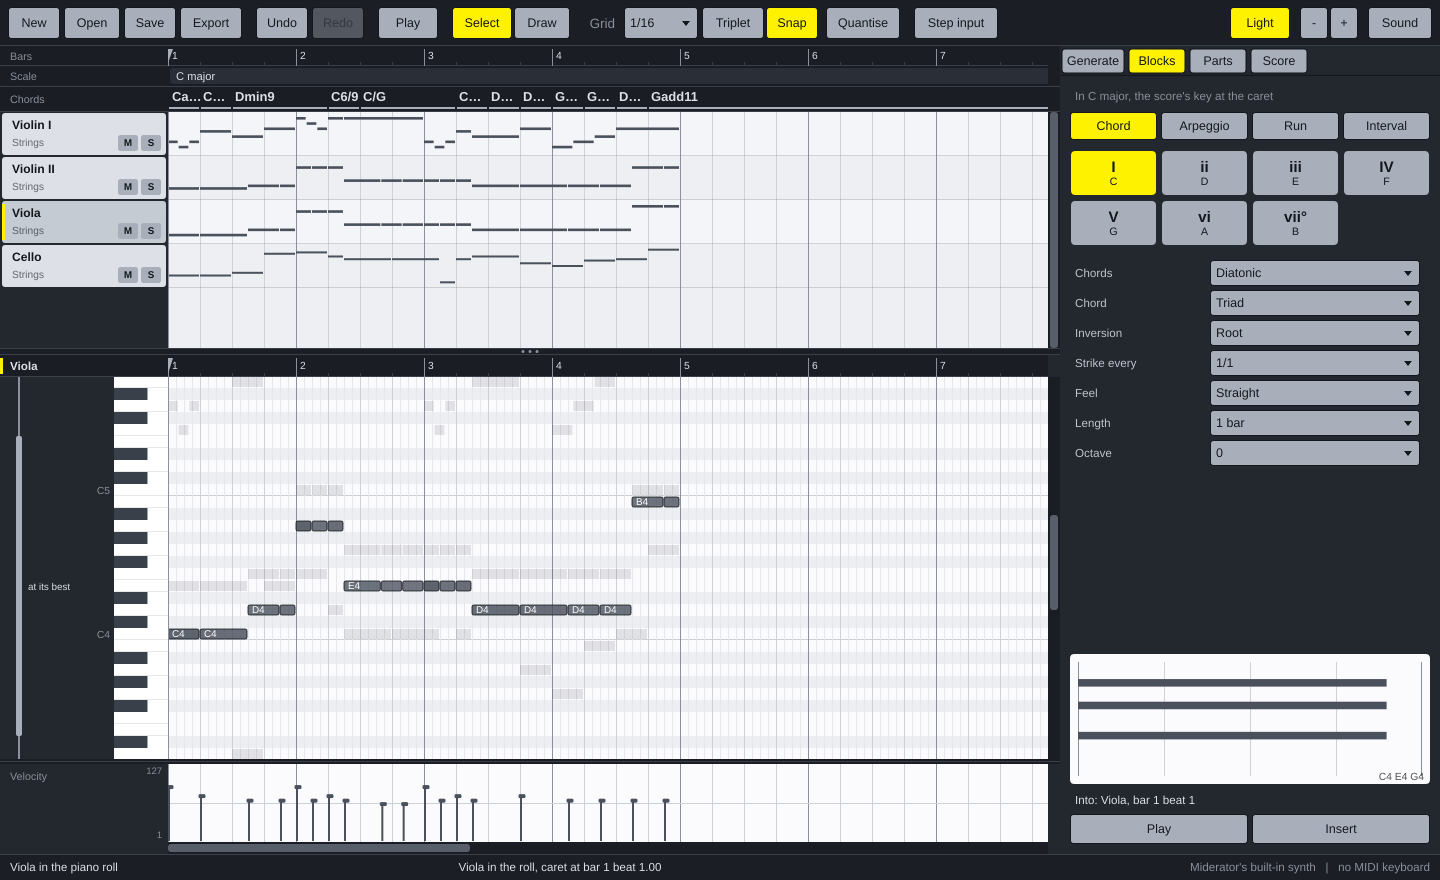
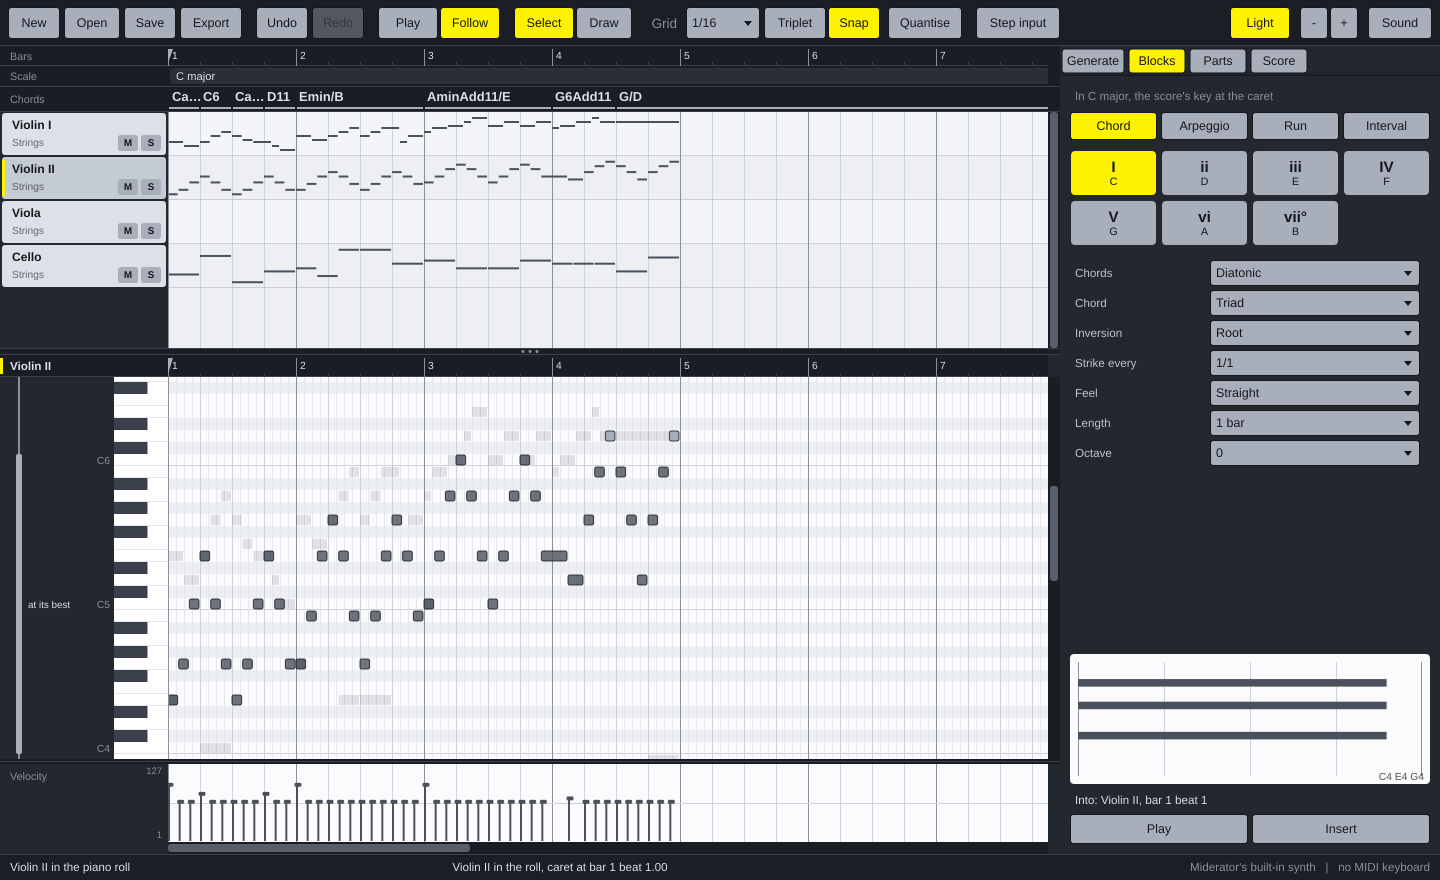
Bring the docs up to date: Follow, the branches, fresh screenshots
README: Follow among what the app does, and screenshots retaken with the
Follow button in the toolbar. ARCHITECTURE: 82 core tests. CLAUDE.md:
where it stands, with everything on unmerged branches in both apps.
NEXT-SESSION: Follow, which branch to start from, how to hear playback in
the container, decision numbers across both apps.

Claude-Session: https://claude.ai/code/session_01CtJqyVyS8EkV3WyBPHEssd

diff --git a/docs/NEXT-SESSION.md b/docs/NEXT-SESSION.md
@@ -20,6 +20,8 @@ through embedded Lua:
   one part's piano roll below with a velocity lane; select, drag, stretch,
   Alt-copy, draw, quantise, step input from a MIDI keyboard; dark by
   default, with a Light option.
+- Follow: while it plays, the view scrolls smoothly with the music, or turns
+  a page at a time (Play menu).
 - Templates up to a full orchestra and big band through Apple's built-in
   General MIDI synth; MIDI, MusicXML and WAV out; MIDI and MusicXML in.
 
@@ -28,8 +30,9 @@ changed, and make sure each change reaches me as the downloadable Mac app from
 GitHub Actions.
 
 Before doing anything:
-1. Start your branch from the latest work (main, or the newest branch if it
-   has not been merged yet).
+1. If the branch ccr-ac8da7d9-3sbl5x (everything so far) is not yet merged
+   into main, start your branch from it. Noterator's branch of the same name
+   holds the matching shared code (docs/SHARED.md).
 2. Read CLAUDE.md, then docs/ARCHITECTURE.md (every decision on one page),
    docs/SHARED.md, and the latest log in docs/sessions/. Follow their rules -
    especially: the files shared with Noterator are never edited here (fix
@@ -41,7 +44,8 @@ Before doing anything:
 3. Build and run the tests (core, app tests, tools/try_generators.lua), and
    render the demo (MideratorRender demo out.png), to confirm everything is
    green before changing anything. For anything with the mouse, run the app
-   headless under Xvfb and look at screenshots.
+   headless under Xvfb and look at screenshots; for playback, CLAUDE.md says
+   how to fake a sound card so the playhead moves.
 
 This session:
 <what I want next - for example: "drawable CC lanes", "articulations",
@@ -57,7 +61,8 @@ Known rough edges are in the latest session log's "Not done yet".
 When you finish: write the session log in docs/sessions/ (and its line in
 docs/sessions/README.md), add a decision record in docs/decisions/ (with its
 line in docs/decisions/README.md and docs/ARCHITECTURE.md) for any choice
-someone could reasonably make the other way, update CLAUDE.md and README.md
+someone could reasonably make the other way - numbered after the highest in
+either Miderator or Noterator, which share one sequence - update CLAUDE.md and README.md
 if what the app does or a rule changed, rewrite docs/NEXT-SESSION.md, push,
 check that the GitHub Actions run is green on both Linux and macOS (the Mac
 test log should say it rendered through Apple General MIDI), and tell me
@@ -69,6 +74,9 @@ where to download the new app.
 - A fix to the generators, the instruments, templates, files or playback
   belongs in Noterator first; the session will ask for that repository if it
   needs it, and copy the change across.
+- Everything so far is on the branch `ccr-ac8da7d9-3sbl5x`, in both
+  Miderator and Noterator. To put it on the main branches, ask a session to
+  open pull requests for you to merge - Noterator's first, or together.
 - If you want the app to open with a normal double-click, the session can set
   up Apple Developer ID signing - it needs your Apple Developer account, added
   to the repository as secrets.

diff --git a/README.md b/README.md
@@ -12,7 +12,7 @@ notation taken out and a piano roll put in. Everything else - the
 generators, the ensembles, the instruments, the sound, the files - is
 Noterator's, and the two open each other's projects.
 
-![Generate Notes filling four bars of a string quartet, the viola in the piano roll](docs/piano-roll.png)
+![Generate Notes filling four bars of a string quartet, the second violin in the piano roll](docs/piano-roll.png)
 
 ## What it does
 
@@ -46,6 +46,10 @@ Noterator's, and the two open each other's projects.
   chords and the scale as you write. Click a chord to hear it.
 - **Hear it.** Plays through the General MIDI orchestra built into macOS - no
   sounds to install - with AutoCC's swells on strings, wind and brass.
+- **Follow the music.** While it plays, the tracks and the roll scroll
+  smoothly along with it, the playhead a third of the way across so you see
+  what is coming. Or turn a page at a time, or keep the view still (the
+  **Follow** button, or **F**).
 - **Take it with you.** Export the whole song or the chosen bars as MIDI
   (with all four AutoCC lanes, for sample libraries), as MusicXML for
   Dorico, Sibelius, MuseScore or Finale, or as WAV audio. Open or drop in a

diff --git a/CLAUDE.md b/CLAUDE.md
@@ -157,8 +157,12 @@ light with **Light** (0031, remembered); the chrome stays dark.
 ## Where it stands
 
 First version, built 2026-10-09: tracks and piano roll, every Noterator
-feature but notation, velocity lane, quantise, step input, light and dark.
-Not yet tried by the user on their Mac. Not built yet, roughly in the order
+feature but notation, velocity lane, quantise, step input, light and dark,
+and Follow - the view scrolls smoothly with the music as it plays, or turns
+a page at a time (0033, 0034). Not yet tried by the user on their Mac. All
+of it is on the branch `ccr-ac8da7d9-3sbl5x`, not yet merged into `main`;
+the shared files match Noterator's branch of the same name (`docs/SHARED.md`),
+also not yet merged there. Not built yet, roughly in the order
 the user is likely to want them: drawable CC lanes; articulations; VST3/CLAP
 instruments and SoundFonts; real-time recording; Windows. Known rough edges
 are in the latest session log's "Not done yet".

diff --git a/docs/ARCHITECTURE.md b/docs/ARCHITECTURE.md
@@ -38,7 +38,7 @@ decisions; 0026 on are Miderator's.
   pitch. A piano roll draws exactly that.
 - **The view is derived.** Nothing about the tracks or the roll is stored;
   the grid, the tool and the zoom are choices in the window.
-- **The music core has no JUCE** (`Source/Core`, `Source/Engines`), so 74 tests
+- **The music core has no JUCE** (`Source/Core`, `Source/Engines`), so 82 tests
   build and run in seconds. `MideratorAppTests` covers the JUCE side.
 - **One controller.** Every window piece reads the `Controller` and asks it for
   changes; it keeps undo, re-checks the instruments, re-detects and re-sends
